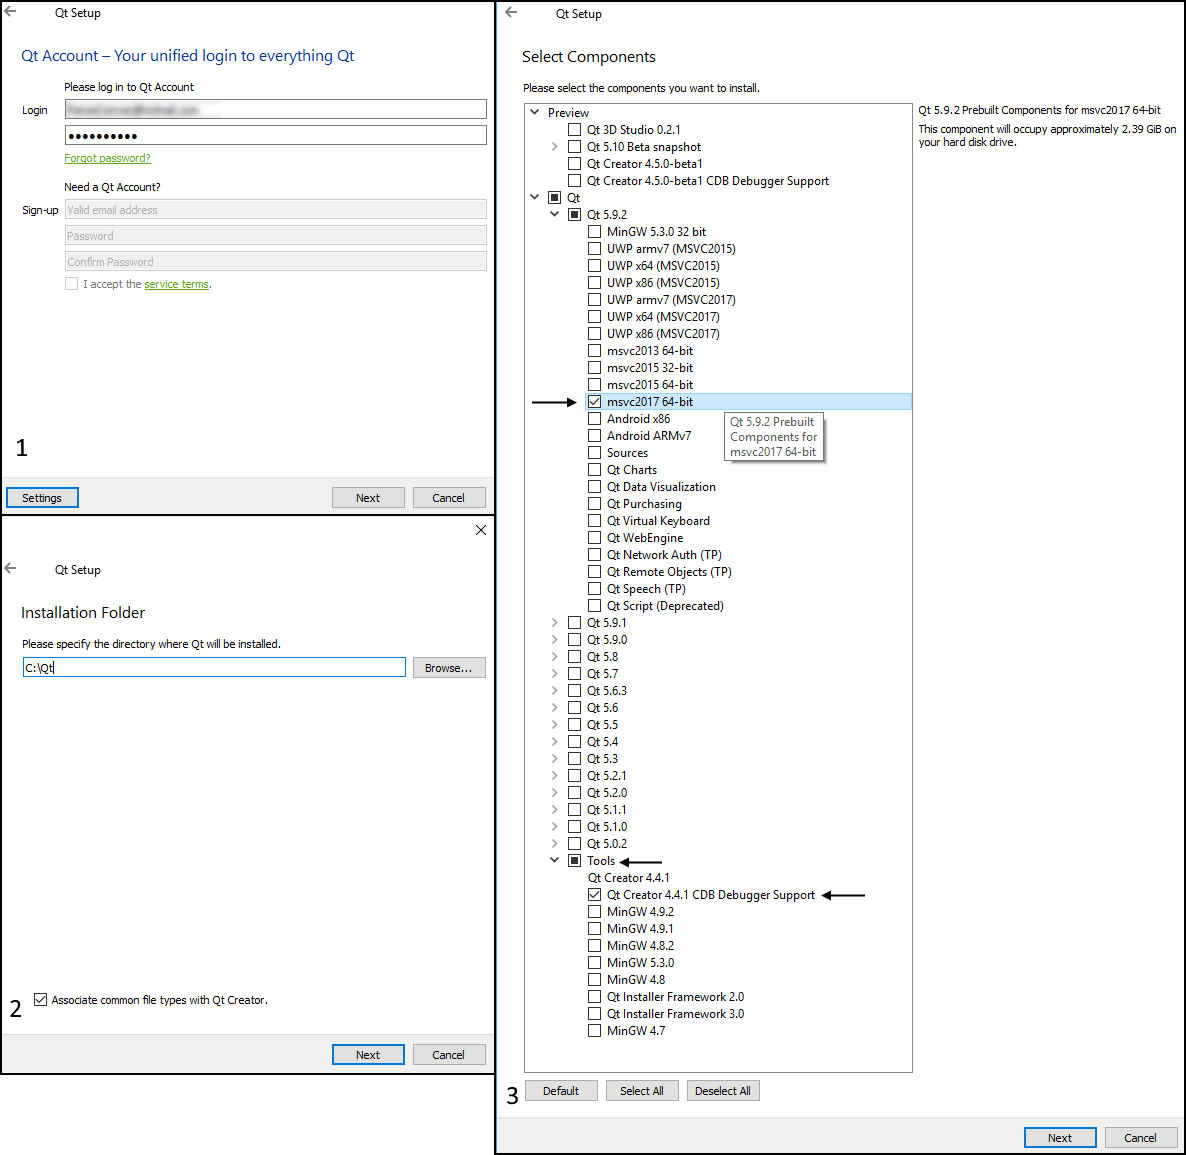
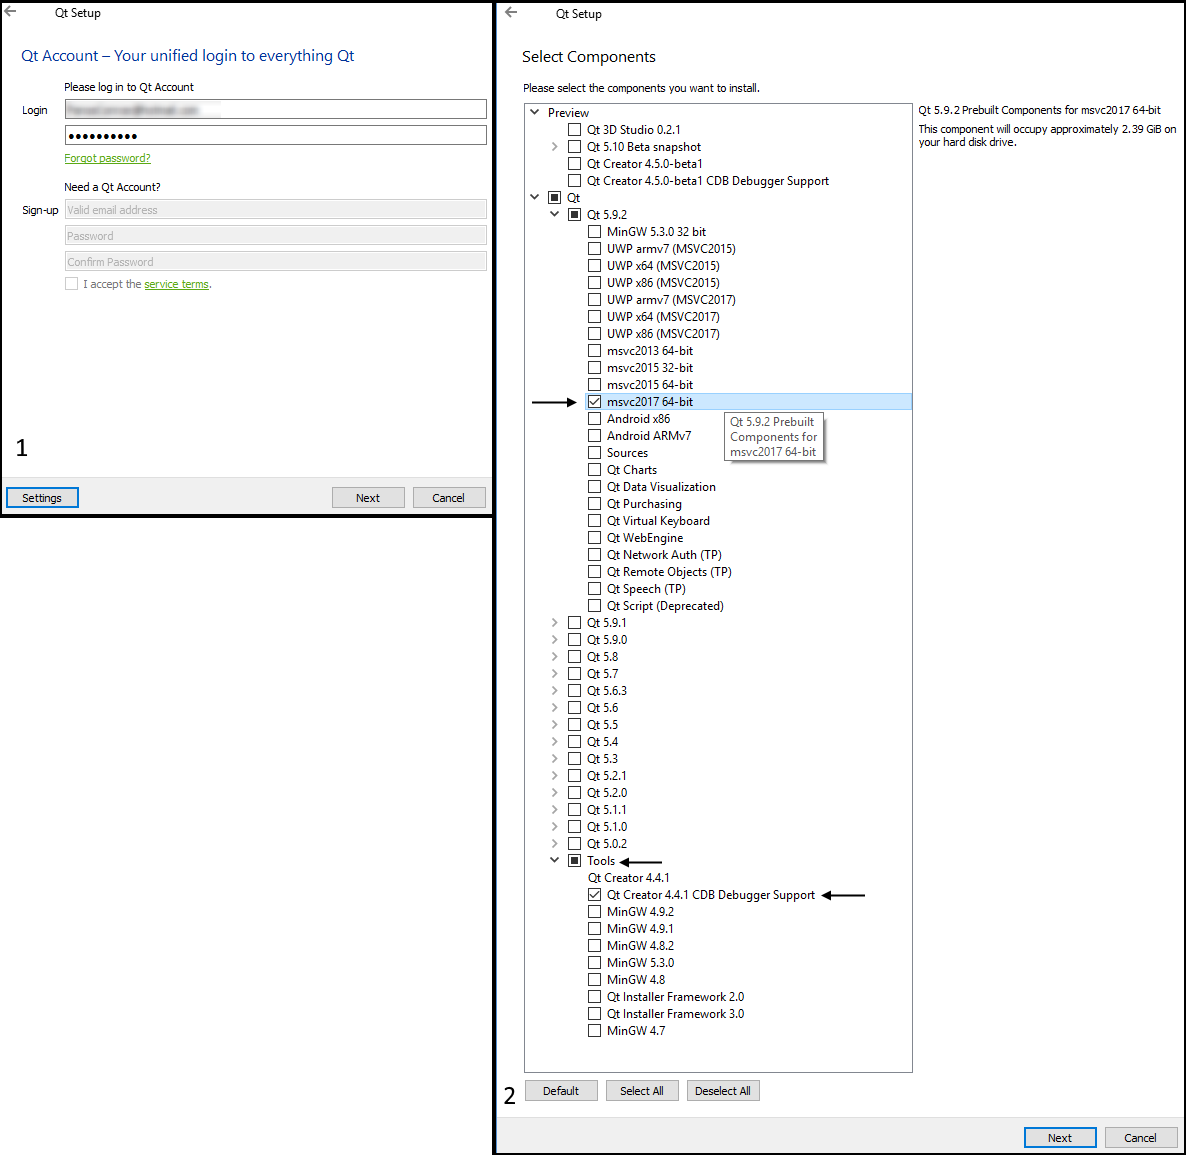
Fixed wrong number in Qt setup screenshot

diff --git a/Documentation/CompilingFromSource/Compiling From Source.md b/Documentation/CompilingFromSource/Compiling From Source.md
@@ -12,8 +12,8 @@ Same as before, we just click install.
 ![Screenshot](https://raw.githubusercontent.com/PanosK92/Directus3D/master/Documentation/CompilingFromSource/Visual%20C%2B%2B.png)
 
 ##### Qt: Download by clicking [here](http://download.qt.io/official_releases/online_installers/qt-unified-windows-x86-online.exe) and install
-Instructions: Before the installation starts, we will be prompted to log in using a Qt Account, in case we don't have one, we have to to create one, unfortunately.
-After that's done, we must make sure that we select the latest 64-bit Qt version that matches the version of Visual Studio we will be using.
+1. Before the installation starts, we will be prompted to log in using a Qt Account, in case we don't have one, we have to to create one, unfortunately.
+2. After that's done, we must make sure that we select the latest 64-bit Qt version that matches the version of Visual Studio we will be using.
 ![Screenshot](https://raw.githubusercontent.com/PanosK92/Directus3D/master/Documentation/CompilingFromSource/Qt.png)
 
 ### Compiling the Runtime and the Editor
